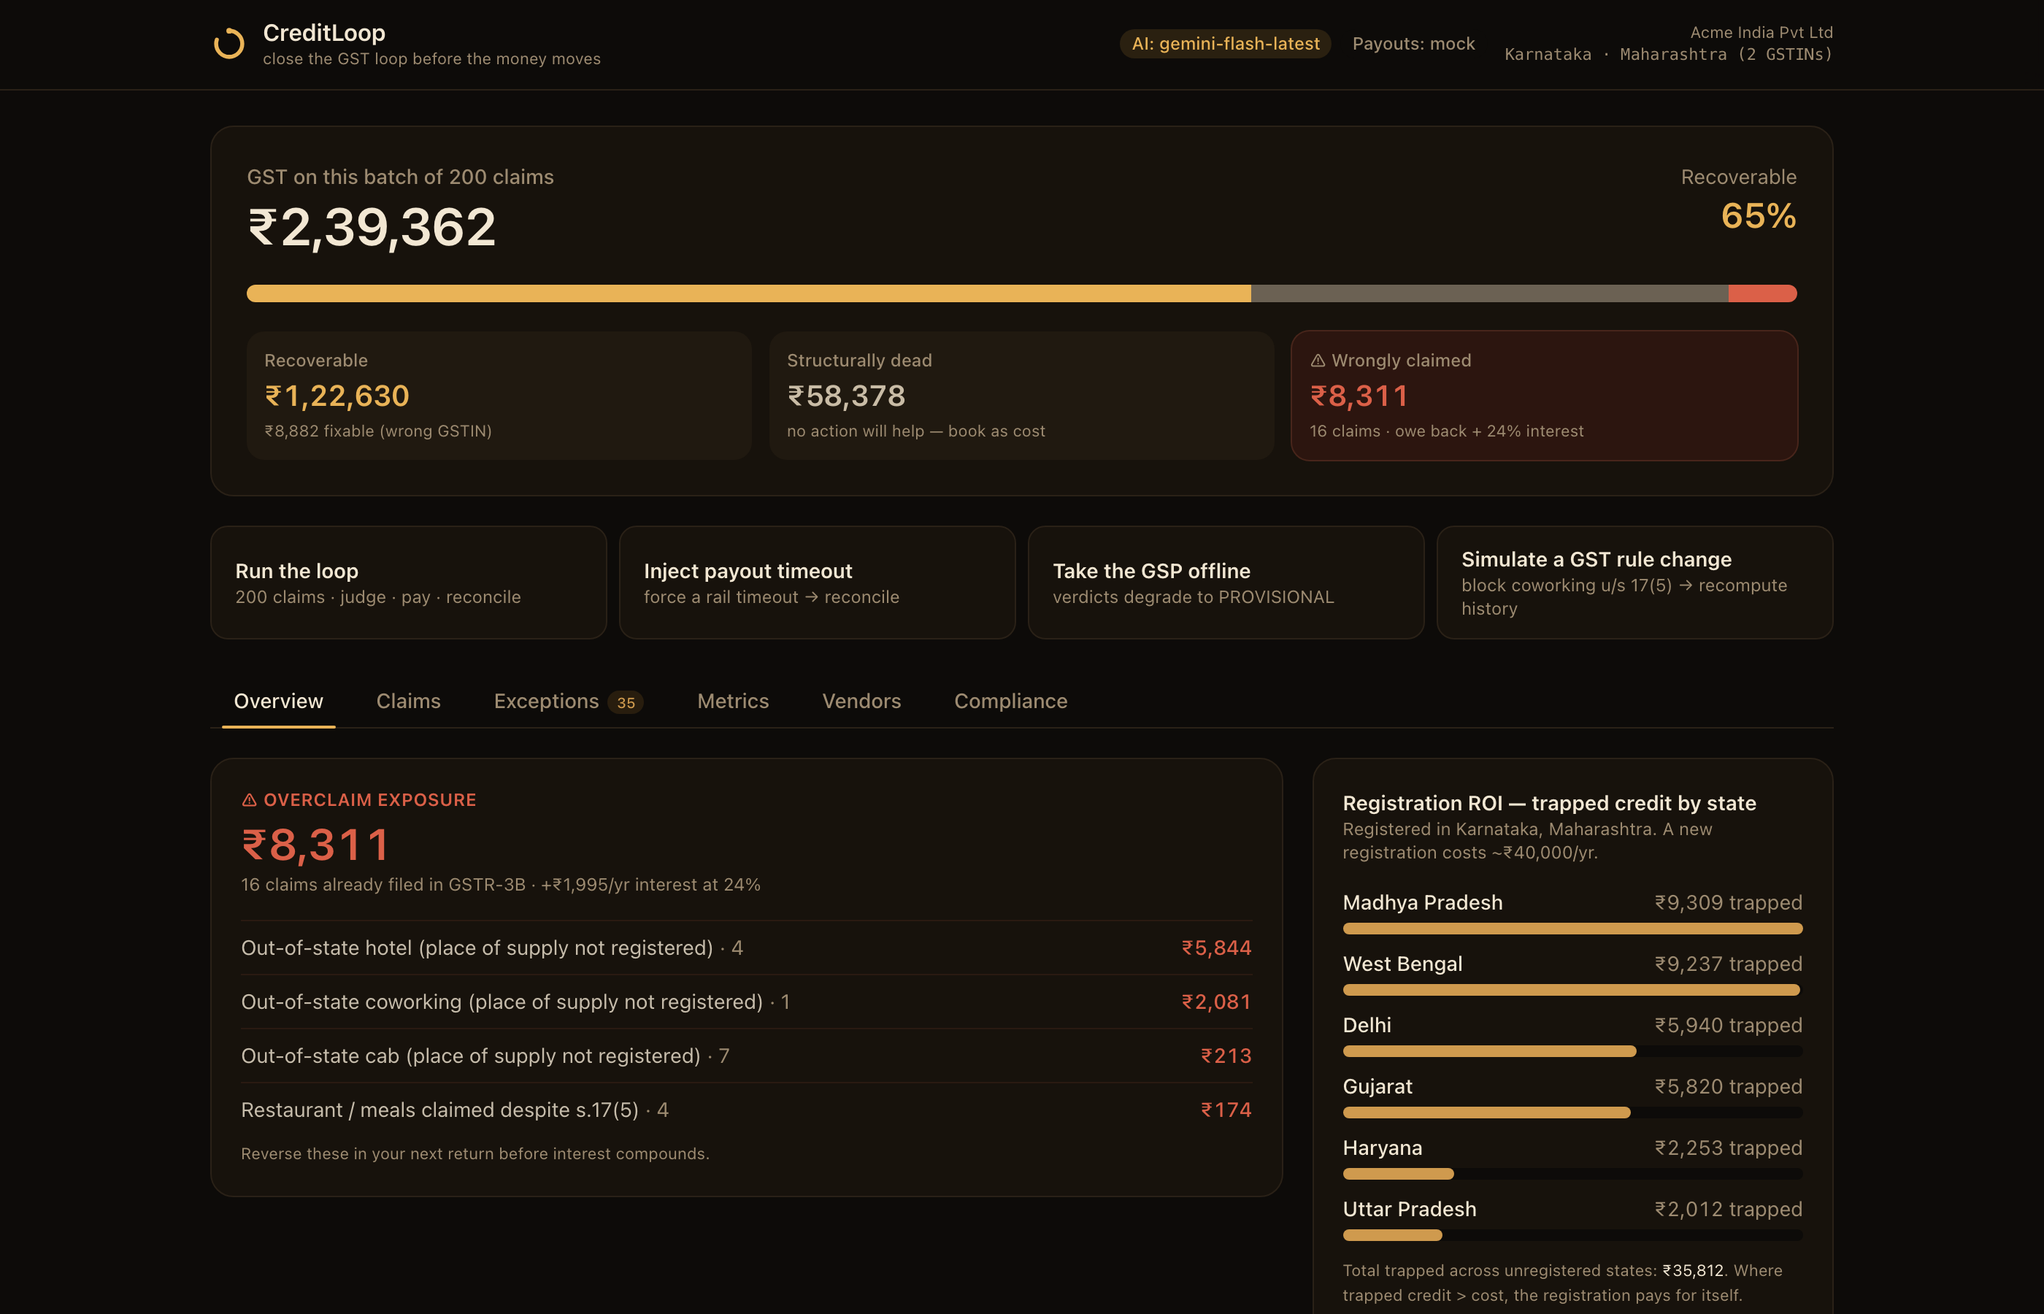
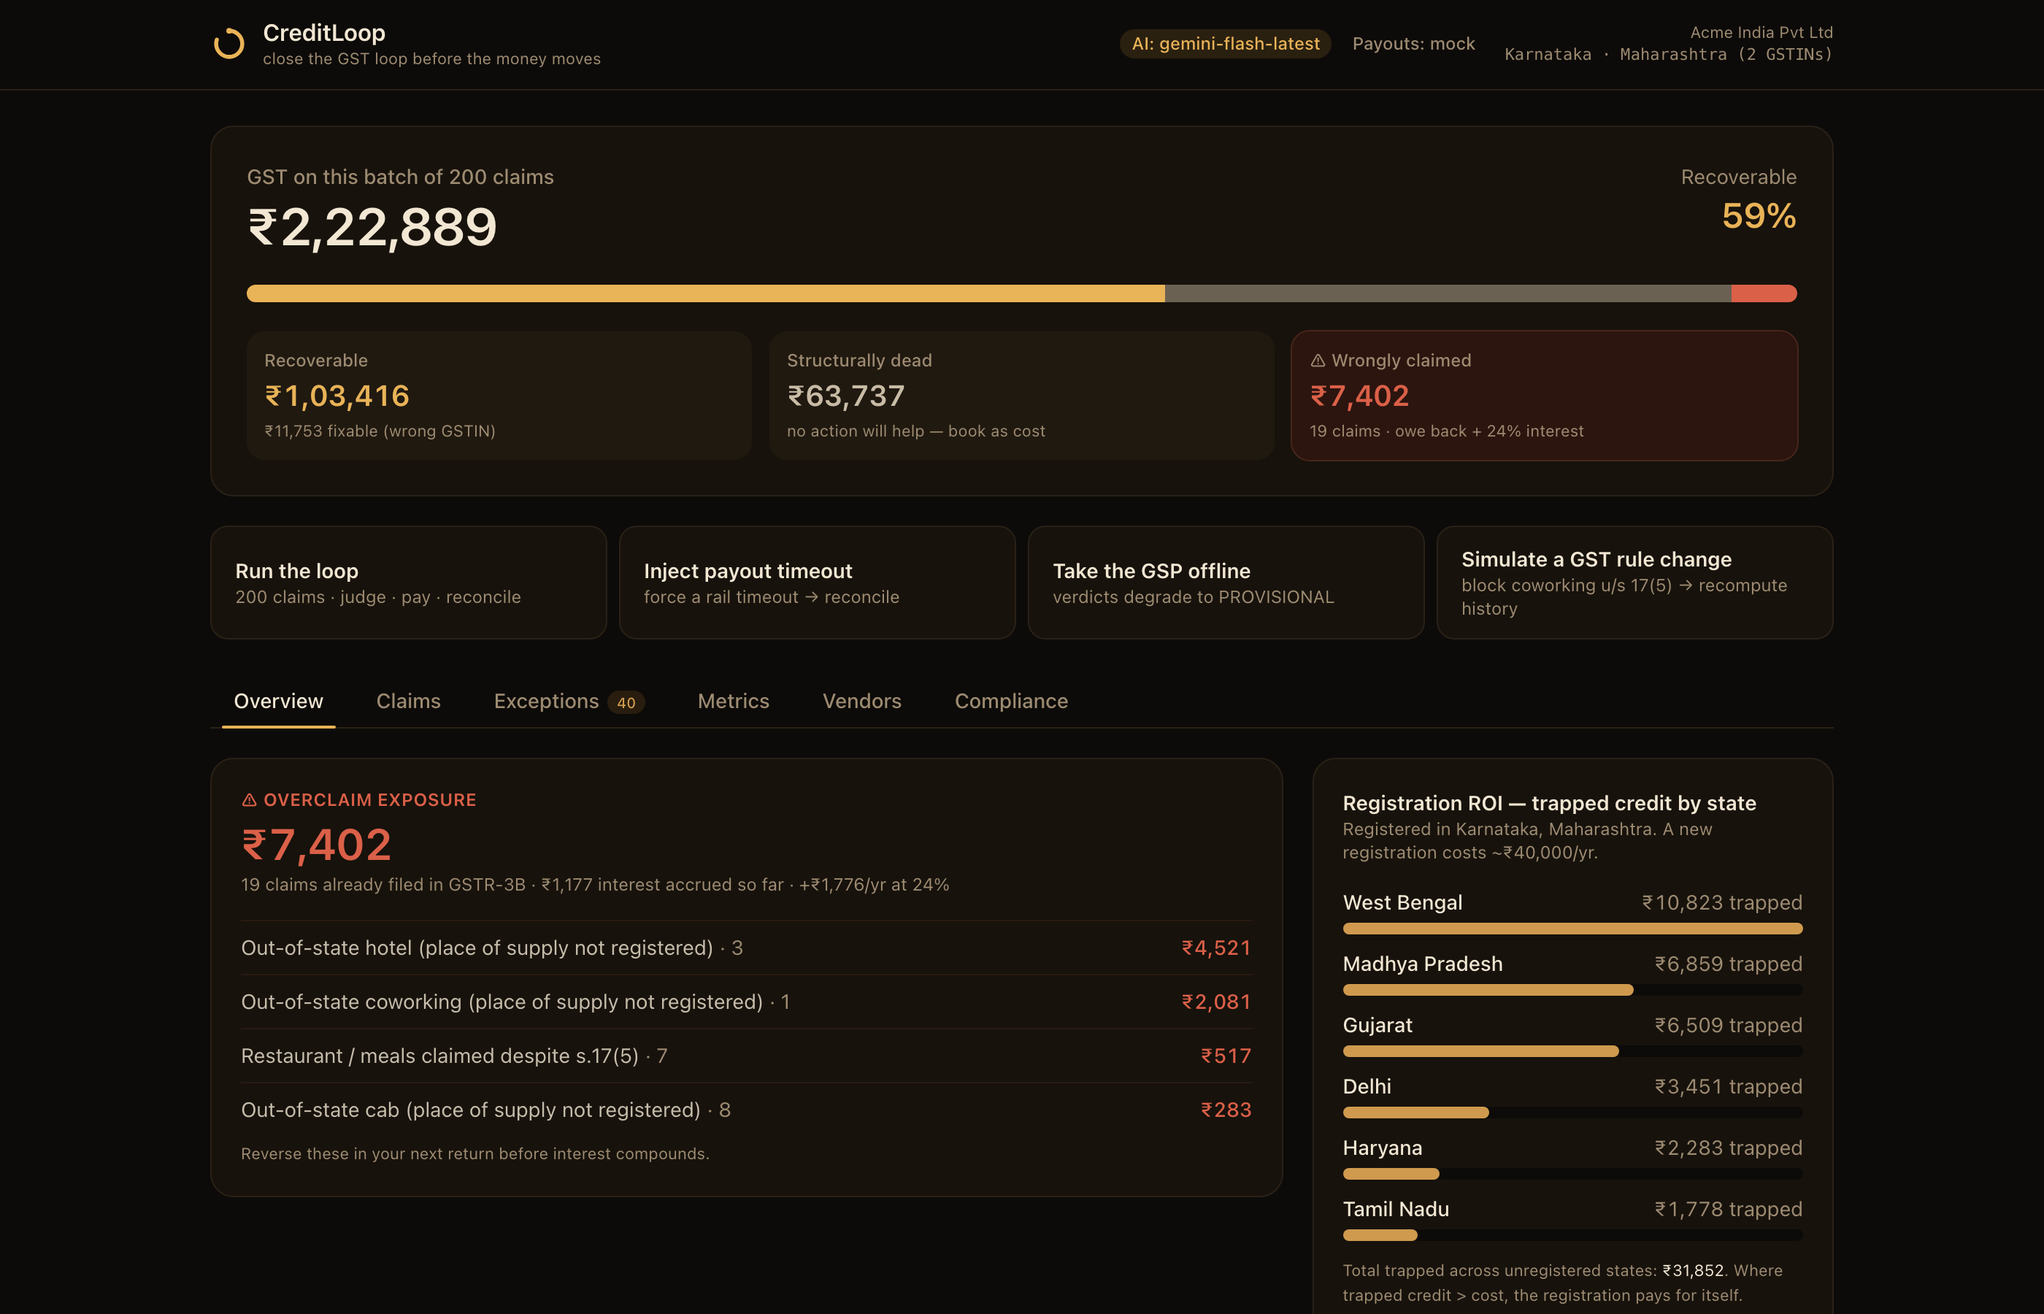
final build spec: CORRUPTED_INVOICE, positioning, compliance firewall, simple CTA

diff --git a/frontend/src/pages/Landing.tsx b/frontend/src/pages/Landing.tsx
@@ -78,9 +78,8 @@ function Hero() {
           </span>
         </h1>
         <p className="fadeup mx-auto mt-6 max-w-2xl text-lg text-[#f2e7d3]/75">
-          Two ways Indian companies lose GST on expenses — credit that was never yours to claim, and
-          credit you claimed anyway and now owe back with interest. CreditLoop knows the difference,
-          <em> before</em> the money moves.
+          Your finance team knows the rules. What they can’t do is apply them to 3,000 claims a year,
+          one line at a time, <em>before</em> the money moves. CreditLoop can.
         </p>
         <div className="fadeup mt-9 flex flex-col items-center justify-center gap-3 sm:flex-row">
           <Link to="/app" className="glow-gold rounded-full bg-[#e9b357] px-6 py-3 font-semibold text-[#0d0b09] transition hover:brightness-110">
@@ -152,7 +151,8 @@ function Problem() {
             That’s <span className="text-[#f7dca0]">Maharashtra</span> tax — and you can’t touch it.
           </p>
           <p>
-            Nobody at the company knows this, so finance claimed it anyway — along with{" "}
+            Your finance team knows this rule. What they can’t do is apply it to 3,000 claims a year,
+            one line at a time, before the money moves. So the ₹1,800 got claimed anyway — along with{" "}
             <span className="text-loss font-semibold">₹47,000 of others like it.</span>{" "}
             That’s not lost money. That’s money you owe back, with 24% interest.
           </p>
@@ -164,7 +164,8 @@ function Problem() {
           <Fate title="Wrongly claimed" tone="text-loss" body="Claimed anyway → owe back + interest." />
         </div>
         <p className="mt-8 text-center text-lg text-[#f2e7d3]/70">
-          CreditLoop is the layer that knows the difference.
+          We’re not smarter than your CA. We’re <span className="text-[#f7dca0]">coverage, timing, and memory</span> —
+          the same answer, applied to every line, on time, remembered.
         </p>
       </div>
     </section>
@@ -212,27 +213,28 @@ function Step({ n, title, body, highlight }: { n: string; title: string; body: s
 function Trust({ s }: { s: Summary | null }) {
   const stats = [
     ["100%", "2B match rate"],
-    ["100%", "engine accuracy"],
+    ["100%", "state-trap recall"],
     ["₹0", "false-block cost"],
-    [String(s?.gsp_calls_per_claim ?? "0.06"), "API calls / claim"],
+    [s ? rupees(s.money.overclaimed) : "—", "overclaim caught"],
   ];
   return (
     <section id="proof" className="border-t border-white/5 px-6 py-20">
       <div className="mx-auto max-w-5xl">
         <div className="grid grid-cols-1 items-center gap-10 md:grid-cols-2">
           <div>
-            <div className="text-xs font-semibold uppercase tracking-widest text-[#e9b357]">Why you can trust it</div>
+            <div className="text-xs font-semibold uppercase tracking-widest text-[#e9b357]">A compliance firewall</div>
             <h2 className="mt-3 text-3xl font-semibold tracking-tight sm:text-4xl">
               An LLM never changes a tax verdict
             </h2>
             <p className="mt-4 text-[#f2e7d3]/65">
-              The law lives in a deterministic engine — versioned rules, cited on every verdict, fully
-              auditable. The model only reads receipts, drafts vendor requests, and proposes rule changes
-              a human approves. Wrong ITC carries 24% interest and penalties; “the AI decided” is not a
-              defence, so the AI doesn’t decide.
+              Three parts, strictly separated. The <span className="text-[#f7dca0]">Reader</span> (a vision model)
+              extracts and is allowed to be unsure. The <span className="text-[#f7dca0]">Judge</span> (deterministic
+              Python) decides and cites the law — never guesses. The <span className="text-[#f7dca0]">Actor</span> pays,
+              idempotently, and can’t double-pay. Wrong ITC carries 24% interest; “the AI decided” is not a defence,
+              so the AI doesn’t decide.
             </p>
             <div className="mt-6 flex flex-wrap gap-2 text-xs">
-              {["deterministic law", "append-only ledger", "idempotent payouts", "honest exception list"].map((t) => (
+              {["Reader · never decides", "Judge · cites law", "Actor · idempotent", "append-only, auditable"].map((t) => (
                 <span key={t} className="rounded-full border border-white/10 bg-white/[0.03] px-3 py-1 text-[#f2e7d3]/70">{t}</span>
               ))}
             </div>
@@ -254,14 +256,14 @@ function Trust({ s }: { s: Summary | null }) {
 /* ------------------------------------------------------------------ cta */
 function CTA() {
   return (
-    <section className="px-6 py-24">
-      <div className="glow-gold mx-auto max-w-4xl rounded-3xl border border-[#e9b357]/20 bg-gradient-to-b from-[#e9b357]/[0.08] to-transparent p-12 text-center">
-        <Mark size={40} />
-        <h2 className="mt-5 text-3xl font-semibold tracking-tight sm:text-4xl">Close the loop.</h2>
-        <p className="mx-auto mt-3 max-w-xl text-[#f2e7d3]/65">
-          200 synthetic claims, judged, paid, and reconciled — with the counter moving in real time.
-        </p>
-        <Link to="/app" className="mt-8 inline-block rounded-full bg-[#e9b357] px-7 py-3 font-semibold text-[#0d0b09] transition hover:brightness-110">
+    <section className="border-t border-white/5 px-6 py-20">
+      <div className="mx-auto flex max-w-4xl flex-col items-center justify-between gap-6 sm:flex-row sm:text-left">
+        <div className="text-center sm:text-left">
+          <h2 className="text-2xl font-semibold tracking-tight sm:text-3xl">See it run on 200 claims.</h2>
+          <p className="mt-1 text-[#f2e7d3]/60">Judged, paid, and reconciled — the counter moves in real time.</p>
+        </div>
+        <Link to="/app"
+          className="shrink-0 rounded-full bg-[#e9b357] px-7 py-3 font-semibold text-[#0d0b09] transition hover:brightness-110">
           Open the live dashboard →
         </Link>
       </div>

diff --git a/frontend/src/components/Insights.tsx b/frontend/src/components/Insights.tsx
@@ -17,7 +17,9 @@ export function OverclaimPanel({ reloadKey }: { reloadKey?: unknown }) {
           <div className="text-xs font-semibold uppercase tracking-wide text-loss">⚠ Overclaim exposure</div>
           <div className="mt-1 text-3xl font-semibold text-loss tnum">{rupees(o.exposure)}</div>
           <div className="mt-0.5 text-xs text-muted">
-            {o.claims} claims already filed in GSTR-3B · +{rupees(o.interest_24pc_yr)}/yr interest at 24%
+            {o.claims} claims already filed in GSTR-3B
+            {o.interest_accrued ? ` · ${rupees(o.interest_accrued)} interest accrued so far` : ""}
+            {" "}· +{rupees(o.interest_24pc_yr)}/yr at 24%
           </div>
         </div>
       </div>

diff --git a/frontend/src/api.ts b/frontend/src/api.ts
@@ -98,7 +98,7 @@ export interface Draft {
   kind: string; subject: string; english: string; hinglish: string; source: string;
 }
 export interface Overclaim {
-  exposure: number; interest_24pc_yr: number; claims: number;
+  exposure: number; interest_24pc_yr: number; interest_accrued?: number; claims: number;
   breakdown: { label: string; amount: number; claims: number }[];
 }
 export interface RegistrationRoi {

diff --git a/backend/app/synthetic.py b/backend/app/synthetic.py
@@ -111,10 +111,10 @@ SCENARIO_COUNTS = {
     "wrong_gstin_used": 10,      # right state, wrong company GSTIN → FIXABLE
     "overclaim_trapped": 12,     # state-trapped AND already claimed → owe back + interest
     # existing hard / exception cases
-    "wrong_entity": 30,
+    "wrong_entity": 25,
     "missing_gstin": 16,
     "blocked_175": 16,
-    "arithmetic_mismatch": 5,
+    "corrupted_invoice": 10,     # totals don't foot, or IGST+CGST/SGST both set
     "duplicate": 4,
     "low_confidence": 6,
     "invalid_gstin": 4,
@@ -367,9 +367,14 @@ def build_claims(vendors: list[Vendor], rng: random.Random):
             expected_decision = "BLOCKED_17_5"
             in_2b = rng.random() < vendor.reliability_score
             already_claimed = rng.random() < 0.35   # restaurant bills claimed despite 17(5)
-        elif scen == "arithmetic_mismatch":
-            gross = round(gross + rng.uniform(200, 900), 2)
-            expected_decision = "EXCEPTION:ARITHMETIC_MISMATCH"
+        elif scen == "corrupted_invoice":
+            if rng.random() < 0.5:
+                gross = round(gross + rng.uniform(200, 900), 2)   # totals don't foot
+            elif cgst > 0:
+                igst = round(cgst, 2)                             # IGST + CGST/SGST both set
+            else:
+                cgst = sgst = round(igst / 2, 2)                  # both set (the interstate case)
+            expected_decision = "EXCEPTION:CORRUPTED_INVOICE"
         elif scen == "invalid_gstin":
             supplier_gstin = supplier_gstin[:14] + ("A" if supplier_gstin[14] != "A" else "B")
             expected_decision = "EXCEPTION:INVALID_GSTIN"
@@ -391,6 +396,7 @@ def build_claims(vendors: list[Vendor], rng: random.Random):
             seq=len(claims), employee_id=emp_id, employee_name=emp_name, amount_gross=gross,
             category=cat, description=f"{cat.value} — {vendor.legal_name.split(' (')[0]}",
             submitted_at=_now(), already_claimed=already_claimed,
+            claimed_days_ago=rng.randint(45, 400) if already_claimed else 0,
         )
         invoice = Invoice(
             claim_id=claim.claim_id, supplier_gstin=supplier_gstin,
@@ -399,6 +405,7 @@ def build_claims(vendors: list[Vendor], rng: random.Random):
             buyer_gstin=buyer_gstin, buyer_name=buyer_name,
             extraction_confidence=confidence, extraction_method=ExtractionMethod.SYNTHETIC_TRUTH,
             supplier_state_code=(supplier_gstin[:2] if supplier_gstin else None),
+            buyer_gstin_used=buyer_gstin,
         )
         claims.append(claim)
         invoices.append(invoice)

diff --git a/backend/app/metrics.py b/backend/app/metrics.py
@@ -134,6 +134,23 @@ def compute_metrics(pipeline_stats: dict | None = None) -> dict:
     state_trapped = _prf("STATE_TRAPPED")
     wrong_gstin = _prf("WRONG_GSTIN_USED")
 
+    # --- arithmetic guard catch rate (must be 100%) ----------------------
+    corrupt_truth = [c for c in claims if gt[c.claim_id]["expected_decision"] == "EXCEPTION:CORRUPTED_INVOICE"]
+    corrupt_caught = sum(1 for c in corrupt_truth
+                         if verdicts[c.claim_id].decision == Decision.EXCEPTION
+                         and verdicts[c.claim_id].reason_code == "CORRUPTED_INVOICE")
+    arithmetic_catch_rate = round(corrupt_caught / len(corrupt_truth), 4) if corrupt_truth else 1.0
+
+    # --- place-of-supply classification accuracy -------------------------
+    # Of the POS-driven verdicts (trapped / wrong-gstin / recoverable-igst),
+    # how many match ground truth. Report both, per FIX-4 (precision hides
+    # over-blocking; this is the paired coverage number).
+    pos_codes = {"STATE_TRAPPED", "WRONG_GSTIN_USED", "RECOVERABLE_IGST"}
+    pos_truth = [c for c in claims if gt[c.claim_id]["expected_decision"] in pos_codes]
+    pos_correct = sum(1 for c in pos_truth
+                      if verdicts[c.claim_id].decision.value == gt[c.claim_id]["expected_decision"])
+    pos_accuracy = round(pos_correct / len(pos_truth), 4) if pos_truth else 1.0
+
     # --- overclaim exposure: dead credit that was already claimed in 3B -------
     dead_vals = {Decision.STATE_TRAPPED, Decision.BLOCKED_17_5, Decision.UNRECOVERABLE_WRONG_ENTITY}
     over_flagged = [c for c in claims if c.already_claimed and verdicts[c.claim_id].decision in dead_vals]
@@ -173,6 +190,8 @@ def compute_metrics(pipeline_stats: dict | None = None) -> dict:
         "section_17_5": s175,
         "state_trapped": state_trapped,
         "wrong_gstin": wrong_gstin,
+        "pos_classification_accuracy": pos_accuracy,
+        "arithmetic_catch_rate": arithmetic_catch_rate,
         "overclaim": overclaim,
         "extraction": extraction,
         "throughput": pipeline_stats or {},

diff --git a/backend/app/state_codes.py b/backend/app/state_codes.py
@@ -1,0 +1,25 @@
+"""GST state codes — the first two digits of every GSTIN. Plain data, versioned,
+no LLM involvement. Supplier state therefore costs ZERO API calls."""
+
+from __future__ import annotations
+
+STATE_CODES: dict[str, str] = {
+    "01": "Jammu & Kashmir", "02": "Himachal Pradesh", "03": "Punjab",
+    "04": "Chandigarh", "05": "Uttarakhand", "06": "Haryana",
+    "07": "Delhi", "08": "Rajasthan", "09": "Uttar Pradesh",
+    "10": "Bihar", "11": "Sikkim", "12": "Arunachal Pradesh",
+    "13": "Nagaland", "14": "Manipur", "15": "Mizoram",
+    "16": "Tripura", "17": "Meghalaya", "18": "Assam",
+    "19": "West Bengal", "20": "Jharkhand", "21": "Odisha",
+    "22": "Chhattisgarh", "23": "Madhya Pradesh", "24": "Gujarat",
+    "25": "Daman & Diu", "26": "Dadra & Nagar Haveli", "27": "Maharashtra",
+    "28": "Andhra Pradesh (old)", "29": "Karnataka", "30": "Goa",
+    "31": "Lakshadweep", "32": "Kerala", "33": "Tamil Nadu",
+    "34": "Puducherry", "35": "Andaman & Nicobar", "36": "Telangana",
+    "37": "Andhra Pradesh", "38": "Ladakh", "97": "Other Territory",
+    "99": "Centre Jurisdiction",
+}
+
+
+def state_name(code: str | None) -> str:
+    return STATE_CODES.get(code or "", code or "?")

diff --git a/backend/app/insights.py b/backend/app/insights.py
@@ -36,6 +36,7 @@ def overclaim_report() -> dict:
 
     buckets: dict[str, dict] = {}
     total = 0.0
+    interest = 0.0   # live-computed: amount × 24% p.a. × days_since_claim / 365
     for c in claims:
         if not c.already_claimed:
             continue
@@ -52,11 +53,13 @@ def overclaim_report() -> dict:
         b["amount"] = round(b["amount"] + v.tax_at_stake, 2)
         b["claims"] += 1
         total += v.tax_at_stake
+        interest += v.tax_at_stake * 0.24 * (c.claimed_days_ago or 180) / 365
 
     rows = sorted(buckets.values(), key=lambda r: -r["amount"])
     return {
         "exposure": round(total, 2),
-        "interest_24pc_yr": round(total * 0.24, 2),
+        "interest_accrued": round(interest, 2),     # to date, per claim's filing date
+        "interest_24pc_yr": round(total * 0.24, 2),  # forward annual rate
         "claims": sum(r["claims"] for r in rows),
         "breakdown": rows,
     }

diff --git a/backend/app/config.py b/backend/app/config.py
@@ -9,18 +9,15 @@ from typing import Optional
 from pydantic_settings import BaseSettings, SettingsConfigDict
 
 from .gstin import compute_checksum
+from .state_codes import STATE_CODES
 
 # backend/  (this file lives in backend/app/config.py)
 BACKEND_DIR = Path(__file__).resolve().parent.parent
 DATA_DIR = BACKEND_DIR / "data"
 RECEIPTS_DIR = DATA_DIR / "receipts"
 
-# State-code → name (only the states this demo touches).
-STATE_NAMES = {
-    "29": "Karnataka", "27": "Maharashtra", "07": "Delhi", "33": "Tamil Nadu",
-    "24": "Gujarat", "36": "Telangana", "19": "West Bengal", "09": "Uttar Pradesh",
-    "06": "Haryana", "23": "Madhya Pradesh",
-}
+# State-code → name (full GST list; re-exported for convenience).
+STATE_NAMES = STATE_CODES
 
 
 def _company_gstin(state_code: str, pan: str = "AABCA1234A", entity: str = "1") -> str:

diff --git a/backend/app/rule_registry.py b/backend/app/rule_registry.py
@@ -77,10 +77,10 @@ DEFAULT_RULES: list[Rule] = [
         approved_by="ca_review_2026_03_11", effective_from="2026-01-01",
     ),
     Rule(
-        rule_id="TAX_ARITHMETIC", version=1, check="arithmetic_consistent",
-        verdict="EXCEPTION:ARITHMETIC_MISMATCH",
-        condition="abs(taxable + cgst + sgst + igst - amount_gross) <= tolerance",
-        source_citation="Internal control — invoice must foot",
+        rule_id="TAX_ARITHMETIC", version=2, check="arithmetic_consistent",
+        verdict="EXCEPTION:CORRUPTED_INVOICE",
+        condition="taxable + cgst + sgst + igst == amount_gross AND not (IGST and CGST/SGST both set)",
+        source_citation="Internal control — Python verifies every total; no LLM math",
         approved_by="ca_review_2026_03_11", effective_from="2026-01-01",
     ),
     Rule(

diff --git a/backend/app/domain.py b/backend/app/domain.py
@@ -104,6 +104,7 @@ class ReasonCode(str, Enum):
     INVALID_GSTIN = "INVALID_GSTIN"                          # checksum / format fails
     GSTIN_NOT_ACTIVE = "GSTIN_NOT_ACTIVE"                    # GSP says registration cancelled
     ARITHMETIC_MISMATCH = "ARITHMETIC_MISMATCH"             # taxable + tax != gross
+    CORRUPTED_INVOICE = "CORRUPTED_INVOICE"                 # totals don't foot, or IGST+CGST/SGST both set
     NO_RULE_MATCH = "NO_RULE_MATCH"                          # no rule covers this category
     DUPLICATE_CLAIM = "DUPLICATE_CLAIM"                      # same invoice already seen
     CONTESTED_RULE = "CONTESTED_RULE"                        # rule is contested -> provisional, not auto-block

diff --git a/backend/app/models.py b/backend/app/models.py
@@ -55,6 +55,7 @@ class Claim(SQLModel, table=True):
     # Whether finance already claimed this ITC in a filed GSTR-3B. A dead credit
     # that was already claimed is an OVERCLAIM — money owed back with interest.
     already_claimed: bool = False
+    claimed_days_ago: int = 0          # days since the wrong claim was filed (for interest)
 
 
 class Invoice(SQLModel, table=True):
@@ -80,6 +81,7 @@ class Invoice(SQLModel, table=True):
     supplier_state_code: Optional[str] = None
     place_of_supply_state: Optional[str] = None
     tax_type: str = "CGST_SGST"
+    buyer_gstin_used: Optional[str] = None   # which of our registrations was quoted on the bill
 
     @property
     def total_tax(self) -> float:

diff --git a/backend/app/engine.py b/backend/app/engine.py
@@ -107,6 +107,10 @@ def _supplier_gstin_active(ctx: EvalContext) -> bool:
 
 
 def _arithmetic_consistent(ctx: EvalContext) -> bool:
+    # (1) IGST and CGST/SGST must never both be non-zero on one invoice.
+    if ctx.igst > 0 and (ctx.cgst > 0 or ctx.sgst > 0):
+        return False
+    # (2) taxable + tax must foot to the gross, within tolerance.
     tol = max(ARITHMETIC_TOLERANCE_ABS, ctx.amount_gross * ARITHMETIC_TOLERANCE_PCT)
     return abs(ctx.taxable_value + ctx.total_tax - ctx.amount_gross) <= tol
 
